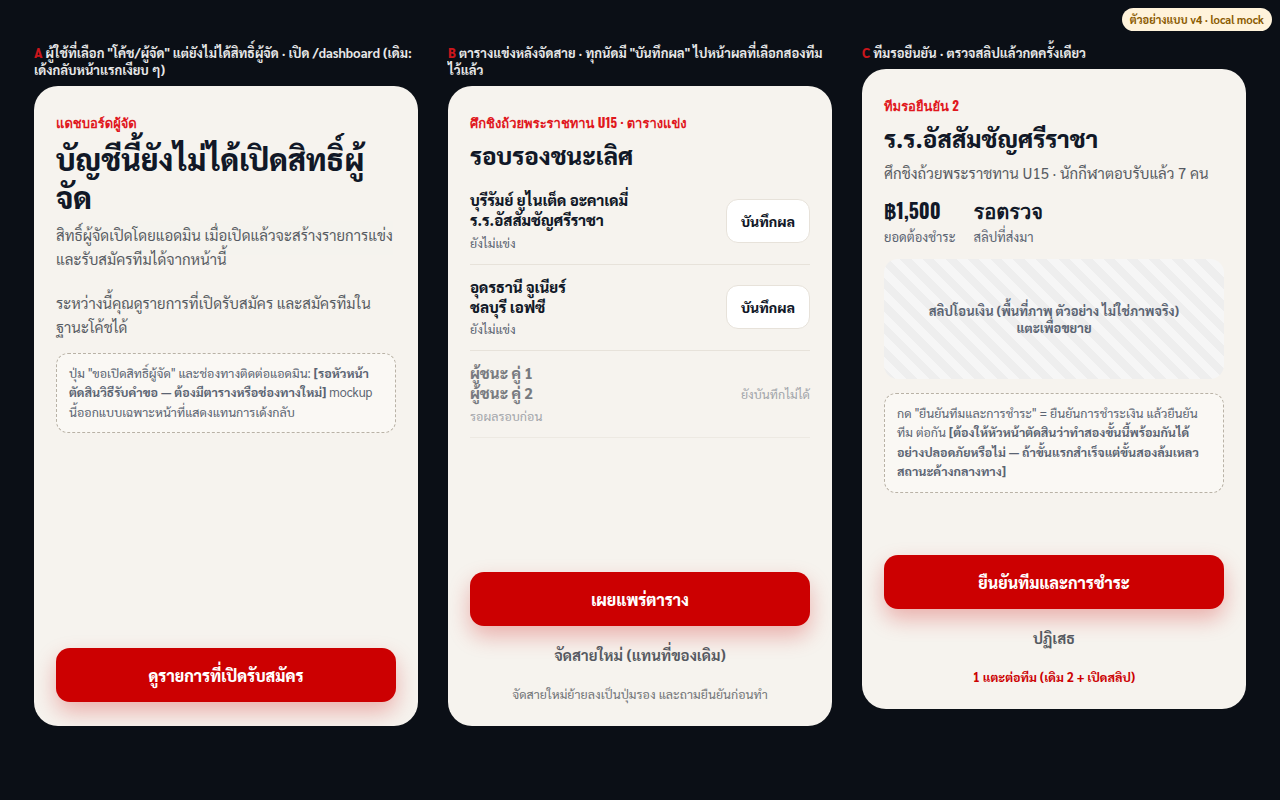
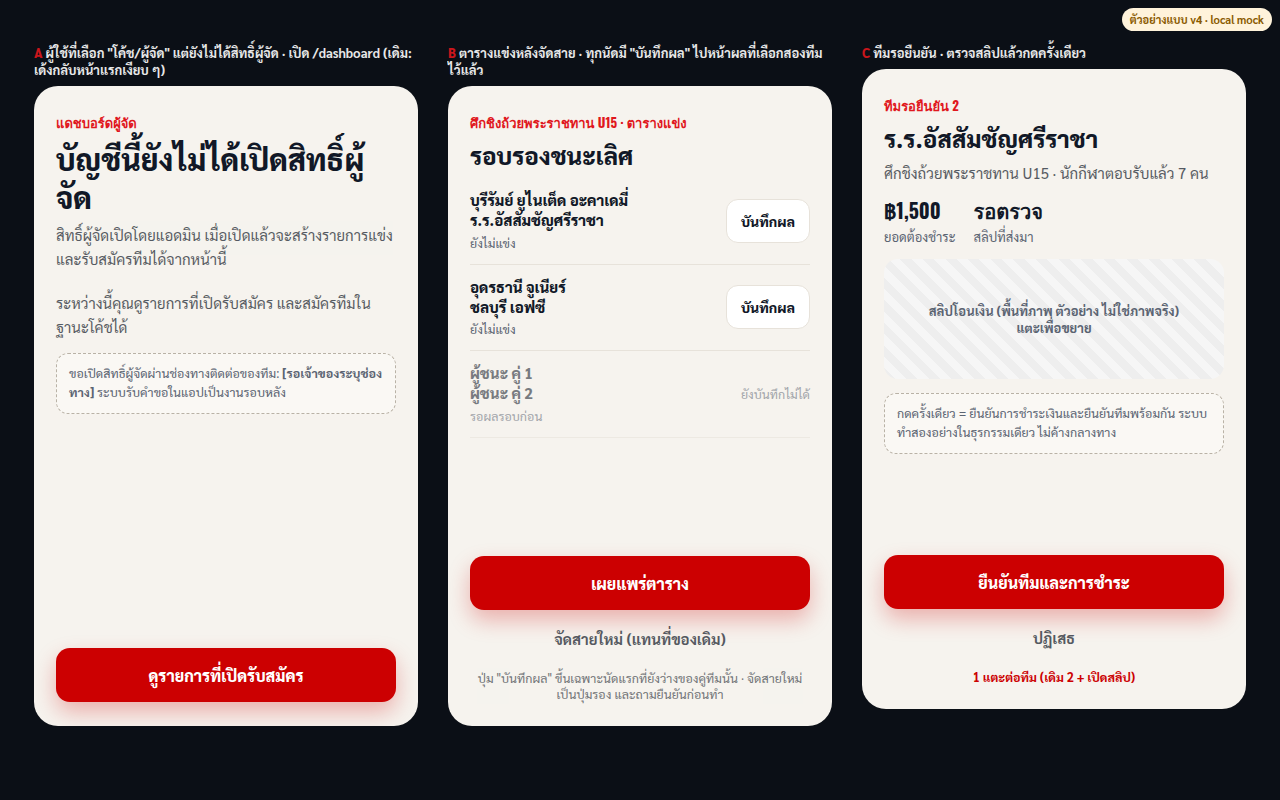
docs: UX audit of flow 5 (returning athlete) with mockup v5; mockup v4 copy per lead
Claude-Session: https://claude.ai/code/session_01PjDzXVQ18knfqzVgKra3B3

Changed region(s): [[0.3438, 0.6875, 0.6562, 0.875], [0.0312, 0.4375, 0.3125, 0.5312], [0.6875, 0.5, 0.9375, 0.5938]]

diff --git a/docs/ux-audit/mockups/v4-flow4.html b/docs/ux-audit/mockups/v4-flow4.html
@@ -8,18 +8,18 @@
 <div class="frames c3">
 <section><p class="cap"><b>A</b> ผู้ใช้ที่เลือก "โค้ช/ผู้จัด" แต่ยังไม่ได้สิทธิ์ผู้จัด · เปิด /dashboard (เดิม: เด้งกลับหน้าแรกเงียบ ๆ)</p><div class="scr pp"><div class="in"><p class="ui-eyebrow" style="letter-spacing:0;text-transform:none;font-size:13px">แดชบอร์ดผู้จัด</p><h1>บัญชีนี้ยังไม่ได้เปิดสิทธิ์ผู้จัด</h1><p class="sub">สิทธิ์ผู้จัดเปิดโดยแอดมิน เมื่อเปิดแล้วจะสร้างรายการแข่งและรับสมัครทีมได้จากหน้านี้</p>
 <p class="sub" style="margin-top:20px">ระหว่างนี้คุณดูรายการที่เปิดรับสมัคร และสมัครทีมในฐานะโค้ชได้</p>
-<div class="note">ปุ่ม "ขอเปิดสิทธิ์ผู้จัด" และช่องทางติดต่อแอดมิน: <b>[รอหัวหน้าตัดสินวิธีรับคำขอ — ต้องมีตารางหรือช่องทางใหม่]</b> mockup นี้ออกแบบเฉพาะหน้าที่แสดงแทนการเด้งกลับ</div></div>
+<div class="note">ขอเปิดสิทธิ์ผู้จัดผ่านช่องทางติดต่อของทีม: <b>[รอเจ้าของระบุช่องทาง]</b> ระบบรับคำขอในแอปเป็นงานรอบหลัง</div></div>
 <div class="ft"><button class="ui-btn ui-btn-primary">ดูรายการที่เปิดรับสมัคร</button></div></div></section>
 
 <section><p class="cap"><b>B</b> ตารางแข่งหลังจัดสาย · ทุกนัดมี "บันทึกผล" ไปหน้าผลที่เลือกสองทีมไว้แล้ว</p><div class="scr pp"><div class="in"><p class="ui-eyebrow" style="letter-spacing:0;text-transform:none;font-size:13px">ศึกชิงถ้วยพระราชทาน U15 · ตารางแข่ง</p><h1 style="font-size:24px">รอบรองชนะเลิศ</h1>
 <div class="fx"><div><b>บุรีรัมย์ ยูไนเต็ด อะคาเดมี่<br>ร.ร.อัสสัมชัญศรีราชา</b><small>ยังไม่แข่ง</small></div><button class="sm">บันทึกผล</button></div>
 <div class="fx"><div><b>อุดรธานี จูเนียร์<br>ชลบุรี เอฟซี</b><small>ยังไม่แข่ง</small></div><button class="sm">บันทึกผล</button></div>
 <div class="fx" style="opacity:.55"><div><b>ผู้ชนะ คู่ 1<br>ผู้ชนะ คู่ 2</b><small>รอผลรอบก่อน</small></div><span style="font-size:12.5px;color:var(--ui-mute)">ยังบันทึกไม่ได้</span></div></div>
-<div class="ft"><button class="ui-btn ui-btn-primary">เผยแพร่ตาราง</button><button class="gh">จัดสายใหม่ (แทนที่ของเดิม)</button><p class="hint">จัดสายใหม่ย้ายลงเป็นปุ่มรอง และถามยืนยันก่อนทำ</p></div></div></section>
+<div class="ft"><button class="ui-btn ui-btn-primary">เผยแพร่ตาราง</button><button class="gh">จัดสายใหม่ (แทนที่ของเดิม)</button><p class="hint">ปุ่ม "บันทึกผล" ขึ้นเฉพาะนัดแรกที่ยังว่างของคู่ทีมนั้น · จัดสายใหม่เป็นปุ่มรอง และถามยืนยันก่อนทำ</p></div></div></section>
 
 <section><p class="cap"><b>C</b> ทีมรอยืนยัน · ตรวจสลิปแล้วกดครั้งเดียว</p><div class="scr pp"><div class="in"><p class="ui-eyebrow" style="letter-spacing:0;text-transform:none;font-size:13px">ทีมรอยืนยัน 2</p><h1 style="font-size:24px">ร.ร.อัสสัมชัญศรีราชา</h1><p class="sub">ศึกชิงถ้วยพระราชทาน U15 · นักกีฬาตอบรับแล้ว 7 คน</p>
 <div class="row2"><div><b>฿1,500</b>ยอดต้องชำระ</div><div><b>รอตรวจ</b>สลิปที่ส่งมา</div></div>
 <div class="slip">สลิปโอนเงิน (พื้นที่ภาพ ตัวอย่าง ไม่ใช่ภาพจริง)<br>แตะเพื่อขยาย</div>
-<div class="note">กด "ยืนยันทีมและการชำระ" = ยืนยันการชำระเงิน แล้วยืนยันทีม ต่อกัน <b>[ต้องให้หัวหน้าตัดสินว่าทำสองขั้นนี้พร้อมกันได้อย่างปลอดภัยหรือไม่ — ถ้าขั้นแรกสำเร็จแต่ขั้นสองล้มเหลว สถานะค้างกลางทาง]</b></div></div>
+<div class="note">กดครั้งเดียว = ยืนยันการชำระเงินและยืนยันทีมพร้อมกัน ระบบทำสองอย่างในธุรกรรมเดียว ไม่ค้างกลางทาง</div></div>
 <div class="ft"><button class="ui-btn ui-btn-primary">ยืนยันทีมและการชำระ</button><button class="gh">ปฏิเสธ</button><p class="hint tap" style="opacity:1">1 แตะต่อทีม (เดิม 2 + เปิดสลิป)</p></div></div></section>
 </div></body></html>

diff --git a/docs/ux-audit/mockups/v5-flow5.html b/docs/ux-audit/mockups/v5-flow5.html
@@ -1,0 +1,23 @@
+<!doctype html><html lang="th"><head><meta charset="utf-8"><meta name="viewport" content="width=device-width,initial-scale=1"><title>V5 นักกีฬาที่กลับมา</title><link rel="stylesheet" href="base.css"><link rel="stylesheet" href="v2.css"><style>
+.top{display:flex;gap:14px;align-items:center;margin-top:6px}.av{width:56px;height:56px;border-radius:16px;background:#1f2b3d;display:grid;place-items:center;font:800 22px var(--font-sarabun)}
+.chips{display:flex;gap:6px;flex-wrap:wrap;margin-top:10px}
+.card2{background:#fff;color:var(--ui-text);border-radius:var(--ui-r-lg);padding:18px;margin-top:18px}
+.wk{display:flex;gap:6px;margin:14px 0}.wk i{flex:1;height:38px;border-radius:10px;border:1.5px dashed var(--ui-line);display:grid;place-items:center;font:700 12.5px var(--font-sarabun);font-style:normal;color:var(--ui-mute)}.wk i.on{background:var(--ui-red);border:0;color:#fff}.wk i.done{background:#e3f6ec;border:0;color:#0c7a45}
+.line{display:flex;align-items:center;gap:10px;min-height:56px;border-bottom:1px solid var(--ui-line-d);font:700 15px var(--font-sarabun)}.line .r{margin-left:auto;opacity:.6}
+.pair{display:grid;gap:10px;margin-top:22px}.eq{min-height:56px;border-radius:16px;border:1.5px solid rgba(255,255,255,.3);background:transparent;color:#fff;font:800 16px var(--font-sarabun)}
+.pp .eq{border-color:var(--ui-line);color:var(--ui-text);background:#fff}
+</style></head><body><div class="sample">ตัวอย่างแบบ v5 · local mock</div>
+<div class="frames c3">
+<section><p class="cap"><b>A</b> นักกีฬาที่กลับมา · /profile เปิดมาเจอ "วันนี้" ก่อน</p><div class="scr dk ui-dark"><div class="in">
+<div class="top"><div class="av">นฟ</div><div><b style="font:800 20px var(--font-sarabun)">น้องกลับมา ฟุตบอล</b><div class="chips"><span class="ui-chip is-self">MF</span><span class="ui-chip is-performance">ยืนยันจากผลแข่ง</span></div></div></div>
+<div class="card2"><p class="ui-eyebrow" style="letter-spacing:0;text-transform:none;font-size:13px">วันนี้ · อังคาร</p><h2 class="ui-h2" style="margin:2px 0 0;font-size:20px">ซ้อมวันนี้ 15 นาที</h2><p class="sub" style="font-size:13.5px;margin-top:4px">วอร์มอัพป้องกันบาดเจ็บ · ซ้อมแล้ว 2 จาก 24 ครั้ง</p>
+<div class="wk"><i class="done">จ</i><i class="on">อ</i><i>พ</i><i>พฤ</i><i>ศ</i><i>ส</i><i>อา</i></div><button class="ui-btn ui-btn-primary">เริ่มซ้อมวันนี้</button></div>
+<div style="margin-top:8px"><div class="line">อันดับในประเทศ<span class="r">#— · ดูอันดับ ›</span></div><div class="line">โปรไฟล์ครบ 4 จาก 6 · ถัดไป: รูปนักกีฬา<span class="r">›</span></div><div class="line">การ์ดนักกีฬา<span class="r">แชร์ ›</span></div></div>
+<p class="sub" style="font-size:12px;margin-top:10px">"#—" คือโครง ค่าจริงมาจาก player_ranks ตอนนี้ยังต้องให้หัวหน้าตรวจต้นทุนคิวรีอันดับ · ปุ่มหลักเหลือปุ่มเดียว · ไม่มีตัวนับ "ต่อเนื่อง 0 สัปดาห์"</p></div></div></section>
+
+<section><p class="cap"><b>B</b> คำถามความปลอดภัยก่อนซ้อม · สองคำตอบน้ำหนักเท่ากัน ไม่ชี้นำ</p><div class="scr dk ui-dark"><div class="in" style="justify-content:center"><p class="ui-eyebrow" style="letter-spacing:0;text-transform:none;font-size:13px">ก่อนเริ่มซ้อม</p><h1>ตอนนี้มีอาการเจ็บไหม?</h1><p class="sub">ตอบตามจริงเพื่อความปลอดภัยของคุณ คำตอบนี้ไม่ถูกเก็บไว้</p>
+<div class="pair"><button class="eq">ไม่เจ็บ · เริ่มซ้อม</button><button class="eq">เจ็บ · ไม่ซ้อมวันนี้</button></div><p class="sub" style="font-size:13px;margin-top:16px">ถ้าเจ็บระหว่างซ้อม ให้หยุดและบอกผู้ปกครองหรือโค้ช</p></div></div></section>
+
+<section><p class="cap"><b>C</b> การ์ดที่แชร์ · ชื่อยาวขึ้นสองบรรทัด ไม่ตัดด้วย "…"</p><div class="scr dk ui-dark"><div class="in" style="align-items:center"><div style="margin-top:20px;width:230px;height:320px;border-radius:20px;background:linear-gradient(160deg,#7d0001,#1a0505);padding:20px;display:flex;flex-direction:column;justify-content:flex-end"><span class="ui-eyebrow" style="color:#fff;opacity:.85">MF · POWER —</span><b style="font:800 26px/1.2 var(--font-sarabun);margin-top:6px">น้องกลับมา<br>ฟุตบอล</b><span style="font-size:12px;opacity:.7;margin-top:6px">ขอนแก่น ยูไนเต็ด U13 · ขอนแก่น</span></div>
+<p class="sub" style="margin-top:18px;text-align:center;font-size:13px">ตัวเลขบนการ์ดแสดง "—" ในภาพนี้เพราะเป็นโครง ค่าจริงมาจากข้อมูลผลแข่ง</p></div><div class="ft"><button class="ui-btn ui-btn-primary">แชร์การ์ด</button></div></div></section>
+</div></body></html>

diff --git a/docs/ux-audit/report-6.md b/docs/ux-audit/report-6.md
@@ -1,0 +1,57 @@
+UX: flow 5 นักกีฬาที่กลับมา (`/profile` → ฝึกซ้อม → การ์ดและอันดับ) — 6 ต.ค. 2026 — ดูบน **local mock** (build `c87ca0b`, Supabase จำลอง, มือถือ 390 px และจอคอม 1280 px)
+
+## ขอบเขตและข้อจำกัด
+
+- ข้อมูลทั้งหมดเป็นข้อมูลสมมติ (นักกีฬา "น้องกลับมา ฟุตบอล" ลงทะเบียนโปรแกรม U10 Foundation วันอังคาร/พฤหัส/เสาร์) ไม่มีรูปเด็กจริง ตัวเลขบนการ์ดและอันดับมาจาก mock ไม่ใช่ข้อมูลจริง
+- ค่าตัวเลขใน mock ไม่สม่ำเสมอ (เช่น "อันดับของฉัน #3 อยู่ในหน้านี้" กับชื่ออื่นในตาราง) ผมไม่ถือเป็นข้อสังเกตของแอป
+- **ไม่ได้ตรวจ**: หน้าจอสรุปหลังซ้อมเสร็จ (สถานะ `done`), การกดบันทึกการซ้อมจริง, `/players/[id]`, หน้า drill รายท่า, เสียง/ตัวจับเวลา, ผลบนมือถือจริงกลางแดด
+- จำนวนแตะนับจากหน้าจอและโค้ด ไม่ได้จับเวลากับคนจริง
+
+## สิ่งที่ดีอยู่แล้ว (ไม่ควรเสียไป)
+
+- หน้า `/training` และหน้าโปรแกรมใช้ระบบดีไซน์ใหม่ ภาพรูปร่างไม่ใช่เด็กจริง มีที่มาและงานวิจัยกำกับ ปุ่มหลักเดียวติดล่างจอ (`f5-e-session-m.png`)
+- ก่อนซ้อมถามอาการเจ็บก่อนเสมอ และ "คำตอบนี้ไม่ถูกส่งไปไหน" ถ้าเจ็บ การซ้อมไม่เริ่ม (ยืนยันจากโค้ด `SessionRunner.tsx`)
+- ตั้งตารางซ้อมหน้าเดียว ปุ่มบอกเหตุผลที่กดไม่ได้ ("เลือกอีก 2 วัน")
+- ตารางอันดับมีโพเดียม ตัวกรอง และแถบ "อันดับของฉัน" (`f5-h-ranking-m.png`)
+
+## ปัญหา (เรียงจากกระทบคนมากที่สุด)
+
+1. **[นักกีฬาที่กลับมา]** เปิด `/profile` ไม่เห็น "วันนี้ทำอะไร" ก่อนเห็นรายการเตรียมโปรไฟล์
+   - ทำไมเป็นปัญหา: ลำดับในหน้าคือ หัวโปรไฟล์ → การ์ดรายการเตรียม ("ก่อนเปิดโปรไฟล์สาธารณะ 4 จาก 6" พร้อมปุ่มแดง "ทำขั้นนี้") → การ์ดฝึกซ้อมวันนี้ (ปุ่มแดงอีกปุ่ม "เริ่มซ้อมวันนี้" ต้องเลื่อนลงไปราวครึ่งจอที่ 390 px) จึงมีปุ่มหลักสองปุ่มแข่งกัน และผู้ใช้ที่เปิดสาธารณะแล้ว (ป้าย "สาธารณะ" และปุ่ม "ดูหน้าสาธารณะ" อยู่ด้านบน) ยังเห็นหัวข้อ "ก่อนเปิดโปรไฟล์สาธารณะ" (`f5-a-profile-m.png`) เหตุผลกลับมาใช้ซ้ำที่ระบบมีอยู่จริงคือการซ้อมวันนี้ และอยู่ถัดลงไป
+   - ข้อเสนอ: เมื่อมีโปรแกรมซ้อม "วันนี้" เป็นการ์ดแรกใต้หัวโปรไฟล์ รายการเตรียมโปรไฟล์ย่อเป็นบรรทัดเดียว ("ครบ 4 จาก 6 · ถัดไป: รูปนักกีฬา") ไม่ใช่ปุ่มแดง (mockup A) ใช้ข้อมูลที่มีอยู่ ไม่ต้องแก้ฐานข้อมูล
+   - วัดผลด้วย: จำนวนการซ้อมที่เริ่มต่อสัปดาห์ต่อนักกีฬาที่ลงทะเบียน · สัดส่วนที่เริ่มซ้อมจาก `/profile` โดยตรง (ตอนนี้ ≈ เลื่อน + 1 แตะ จาก `/profile`)
+2. **[นักกีฬาที่กลับมา]** ดูอันดับของตัวเองจาก `/profile` หรือการ์ดไม่ได้
+   - ทำไมเป็นปัญหา: บล็อก "การ์ดนักกีฬา" บน `/profile` มี Power Rating กับปุ่ม "สร้างและแชร์การ์ด" ไม่มีอันดับหรือลิงก์ไปอันดับ (ทางลัดมีแค่ จองสนาม, โอกาสสนับสนุน, สมาชิกทีม, Career Passport) ต้องไปที่แถบล่าง "ค้นหา" แล้วเลือกแท็บ Ranking จึงเห็น "อันดับของฉัน" ผลแข่งที่ยืนยันแล้วคือสิ่งที่ระบบสัญญาไว้ว่าจะ "กลายเป็นอันดับ" แต่ผู้ใช้ไม่เห็นผลนั้นตรงจุดที่ตัวเองอยู่
+   - ข้อเสนอ: แถวเดียว "อันดับในประเทศ #N · ดูอันดับ ›" บน `/profile` (mockup A) ค่า N ต้องมาจาก `findMyPosition` ของหน้า `/ranking` ซึ่งนับแถวที่คะแนนสูงกว่า **ขอให้หัวหน้าตรวจดัชนีและต้นทุนที่ปริมาณหลายแสนแถวก่อน** (กฎข้อ 1) ถ้าไม่มี rank แสดง "—" ตามกฎข้อ 8 ผมไม่ได้ใส่ตัวเลขจริงใน mockup
+   - วัดผลด้วย: การเปิด `/ranking` จาก `/profile` · จำนวนครั้งที่เปิด `/ranking` ต่อนักกีฬาต่อสัปดาห์
+3. **[นักกีฬา · ความปลอดภัย]** คำถาม "มีอาการเจ็บไหม?" ให้น้ำหนักภาพไม่เท่ากัน
+   - ทำไมเป็นปัญหา: ในโค้ด "ไม่เจ็บ เริ่มซ้อม" เป็นปุ่มหลักสีแดง ส่วน "เจ็บ" เป็นปุ่มรอง (`SessionRunner.tsx`: `ui-btn-primary` กับ `ui-btn-ghost`) และเมื่อเปิดหน้ามีเส้นโฟกัสอยู่ที่ปุ่ม "ไม่เจ็บ" (`f5-e-session-m.png`) เด็กที่อยากเริ่มซ้อมเร็วอาจกดผ่านคำถามความปลอดภัย (ยังไม่ได้ทดสอบกับผู้ใช้จริง นี่เป็นข้อสังเกตด้านการออกแบบ)
+   - ข้อเสนอ: ปุ่มสองปุ่มน้ำหนักเท่ากันและป้ายบอกผลชัด ("ไม่เจ็บ · เริ่มซ้อม" / "เจ็บ · ไม่ซ้อมวันนี้") ไม่ปรับถ้อยคำหลักของคำถาม (mockup B) **ขอให้หัวหน้า/ผู้ตรวจโปรแกรมซ้อมยืนยันถ้อยคำก่อน** เพราะเป็นข้อความด้านสุขภาพ
+   - วัดผลด้วย: สัดส่วนที่เลือก "เจ็บ" (ไม่มีข้อมูลนี้ตอนนี้และไม่ควรเก็บคำตอบรายบุคคลตามหลักของโปรแกรม ควรดูเฉพาะการใช้งานรวม ถ้าหัวหน้าเห็นว่าทำได้)
+4. **[นักกีฬา]** ชื่อบนการ์ดที่แชร์ถูกตัดด้วย "…"
+   - ทำไมเป็นปัญหา: ชื่อ "น้องกลับมา ฟุตบอล" แสดงเป็น "น้องกลับมา ฟต…" บนการ์ด (`f5-g-card-m.png`) การ์ดคือสิ่งที่นักกีฬาโพสต์ให้เพื่อนและผู้ปกครองเห็น ชื่อไทยยาวหรือชื่อ-นามสกุลจึงมักยาวเกินบรรทัดเดียว
+   - ข้อเสนอ: ชื่อขึ้นสองบรรทัด ลดขนาดเมื่อยาวมาก (mockup C)
+   - วัดผลด้วย: จำนวนการแชร์การ์ดต่อนักกีฬา (ถ้ามี event)
+5. **[นักกีฬา]** ตัวเลข "Power" บนการ์ดกับบน `/profile` อาจมาจากคนละที่
+   - จากโค้ด: การ์ด (`app/card/page.tsx`) แสดง `player_ratings.power_rating` ส่วน `/profile` และ `/ranking` ใช้ `player_ranks.pts` ในชื่อเดียวกันว่า Power Rating ถ้าสองค่านี้ไม่เท่ากันในข้อมูลจริง นักกีฬาจะเห็น "Power" สองค่าในบัญชีเดียว (ใน mock ผมตั้งสองค่าต่างกัน จึงเห็นเลขต่างกัน ซึ่งไม่ใช่หลักฐานว่าจริง) **ขอให้หัวหน้ายืนยันว่าสองค่านี้เท่ากันโดยโครงสร้าง (SQL) หรือไม่**
+6. **[นักกีฬา · ข้อสังเกตเรื่องตัวนับ]** การ์ดฝึกซ้อมแสดง "ต่อเนื่อง 0 สัปดาห์" ให้ผู้ที่เพิ่งเริ่ม
+   - ตามกฎ "ไม่มี streak guilt" ตัวนับ 0 ที่แสดงเป็นข้อความเชิงลบเล็กน้อย ข้อเสนอ: แสดงเฉพาะเมื่อ ≥ 1 สัปดาห์ (mockup A ไม่แสดง) เป็นเรื่องเล็ก ไม่ต้องแก้ฐานข้อมูล
+
+## mockup ที่เสนอ
+
+`img/v5-flow5-m.png` (มือถือ) · `img/v5-flow5-d.png` (จอคอม) · ต้นฉบับ `mockups/v5-flow5.html`
+- A: `/profile` ของนักกีฬาที่กลับมา — "วันนี้" ก่อน, แถวอันดับ, รายการเตรียมโปรไฟล์ย่อ (ปัญหา 1, 2, 6)
+- B: คำถามเจ็บ/ไม่เจ็บ น้ำหนักเท่ากัน (ปัญหา 3)
+- C: ชื่อบนการ์ดสองบรรทัด (ปัญหา 4)
+- ตัวเลขทุกตัวใน mockup เป็น "—" หรือข้อความจากระบบที่มีอยู่จริง ไม่ใส่สถิติสมมติ
+
+## nationwide use
+
+- ข้อ 1: แถวอันดับบน `/profile` เพิ่มคิวรีนับอันดับต่อการเปิดหน้า ต้องมีดัชนีตามที่หัวหน้าตรวจ ผมยังไม่ได้วัด
+- ข้อ 3: การ์ดที่แชร์เป็นข้อมูลที่เจ้าของเลือกแชร์เอง ไม่เปลี่ยนสิทธิ์การมองเห็น
+- ข้อ 5: ทุกข้อเป็นการอ่านโค้ดและภาพจาก mock ไม่มีหลักฐานเชิงปริมาณ
+
+## ต้องการจากเจ้าของ
+
+- อนุมัติหรือขอแก้ mockup A, B, C ทีละอัน (A แถวอันดับรอหัวหน้าตรวจดัชนี, B รอตรวจถ้อยคำสุขภาพ)
+- ผมยังไม่ได้แก้โค้ดของ flow นี้ และจะไม่แก้จนกว่าจะอนุมัติ
